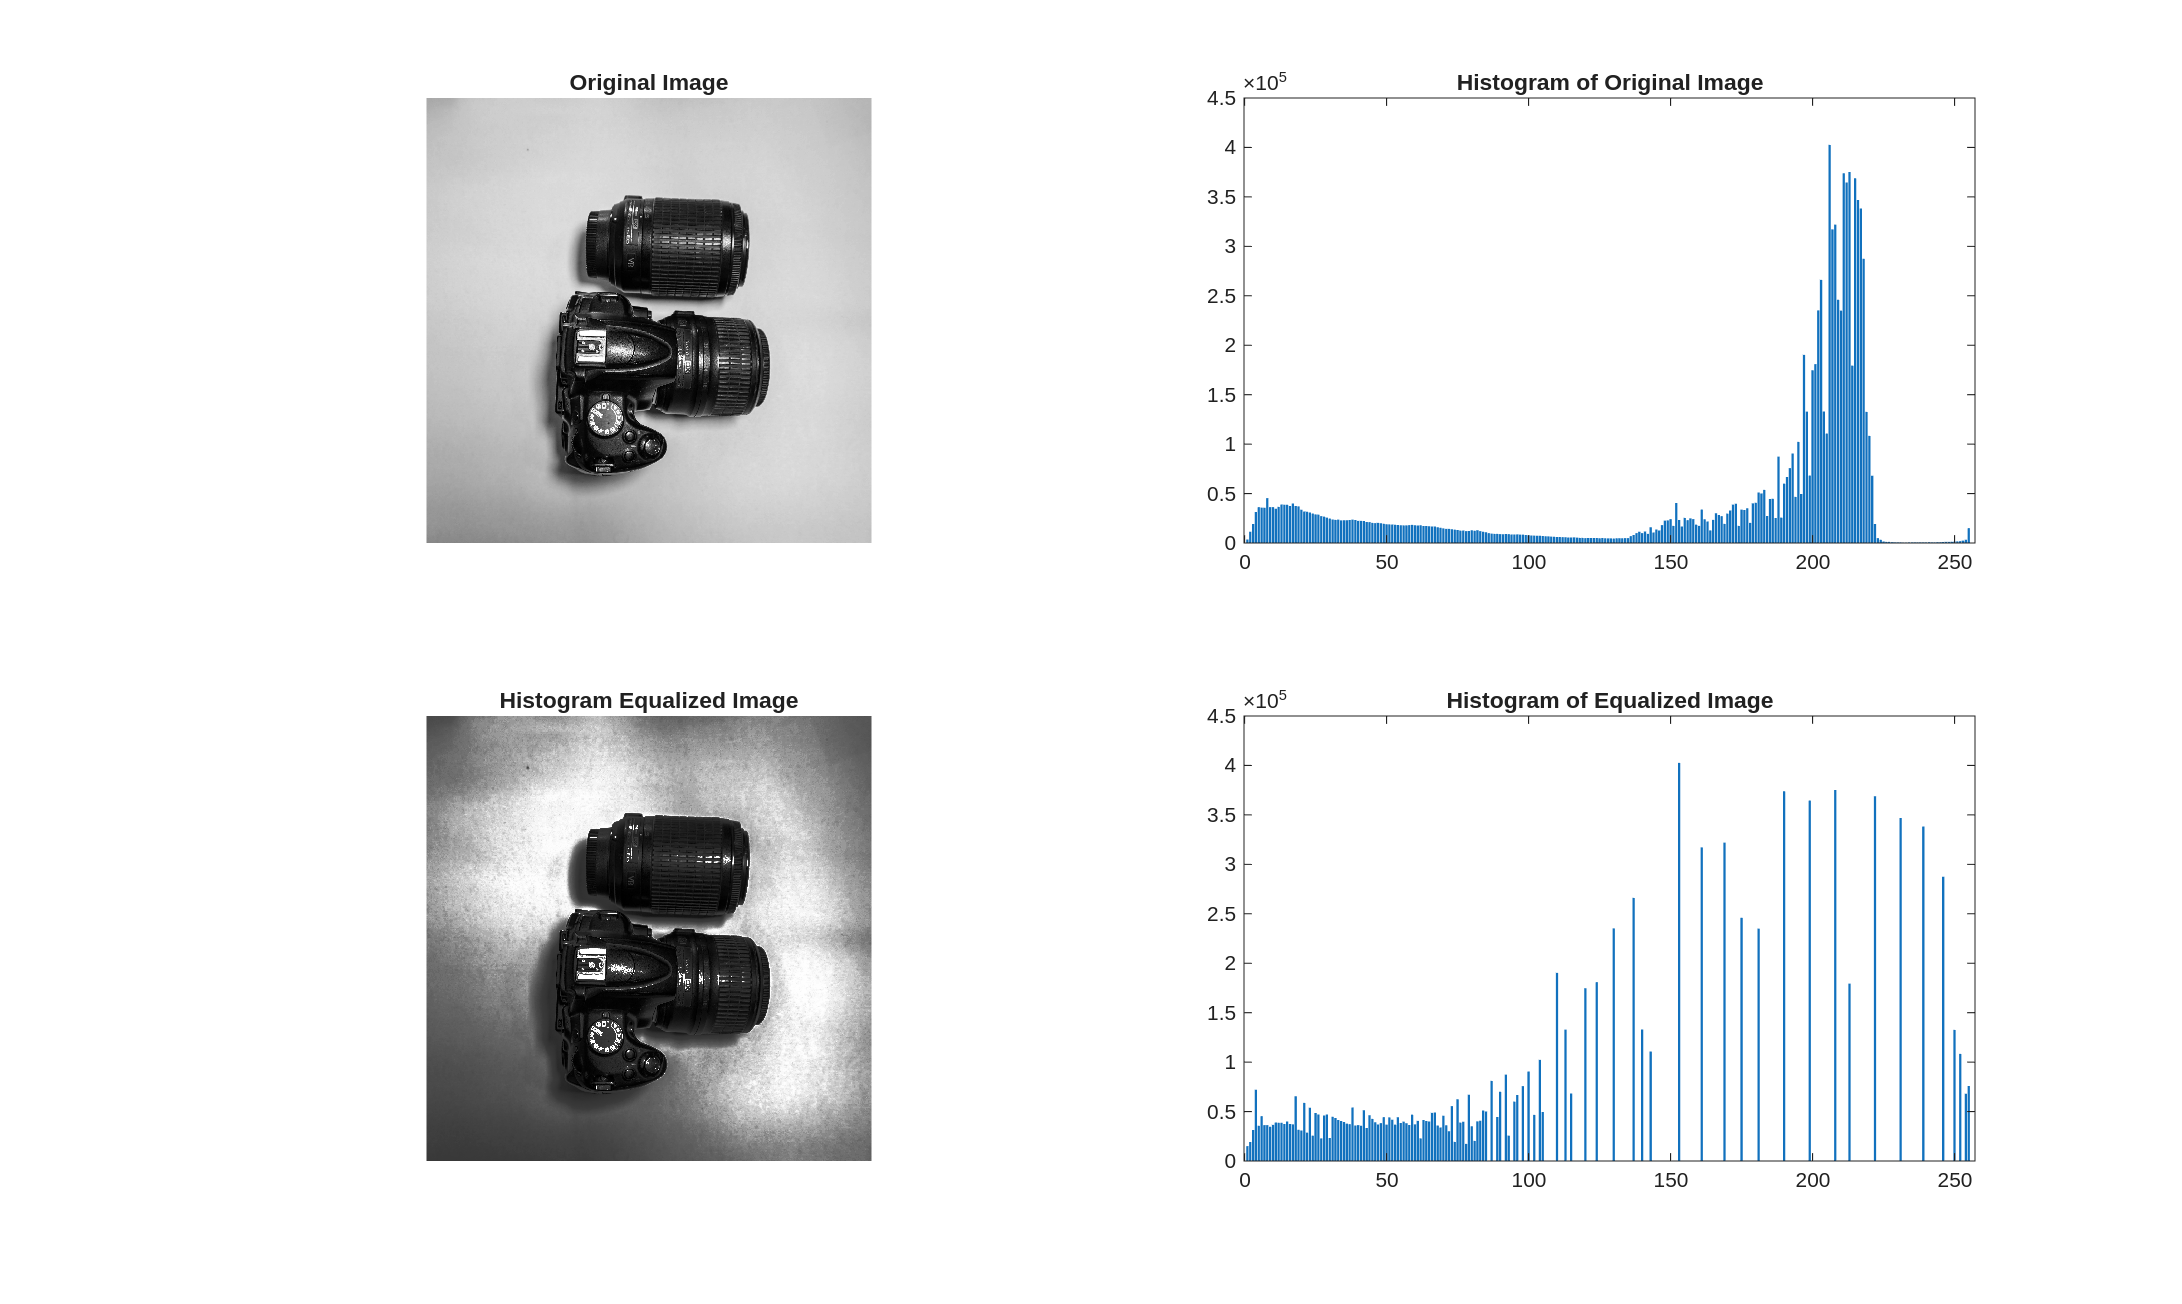
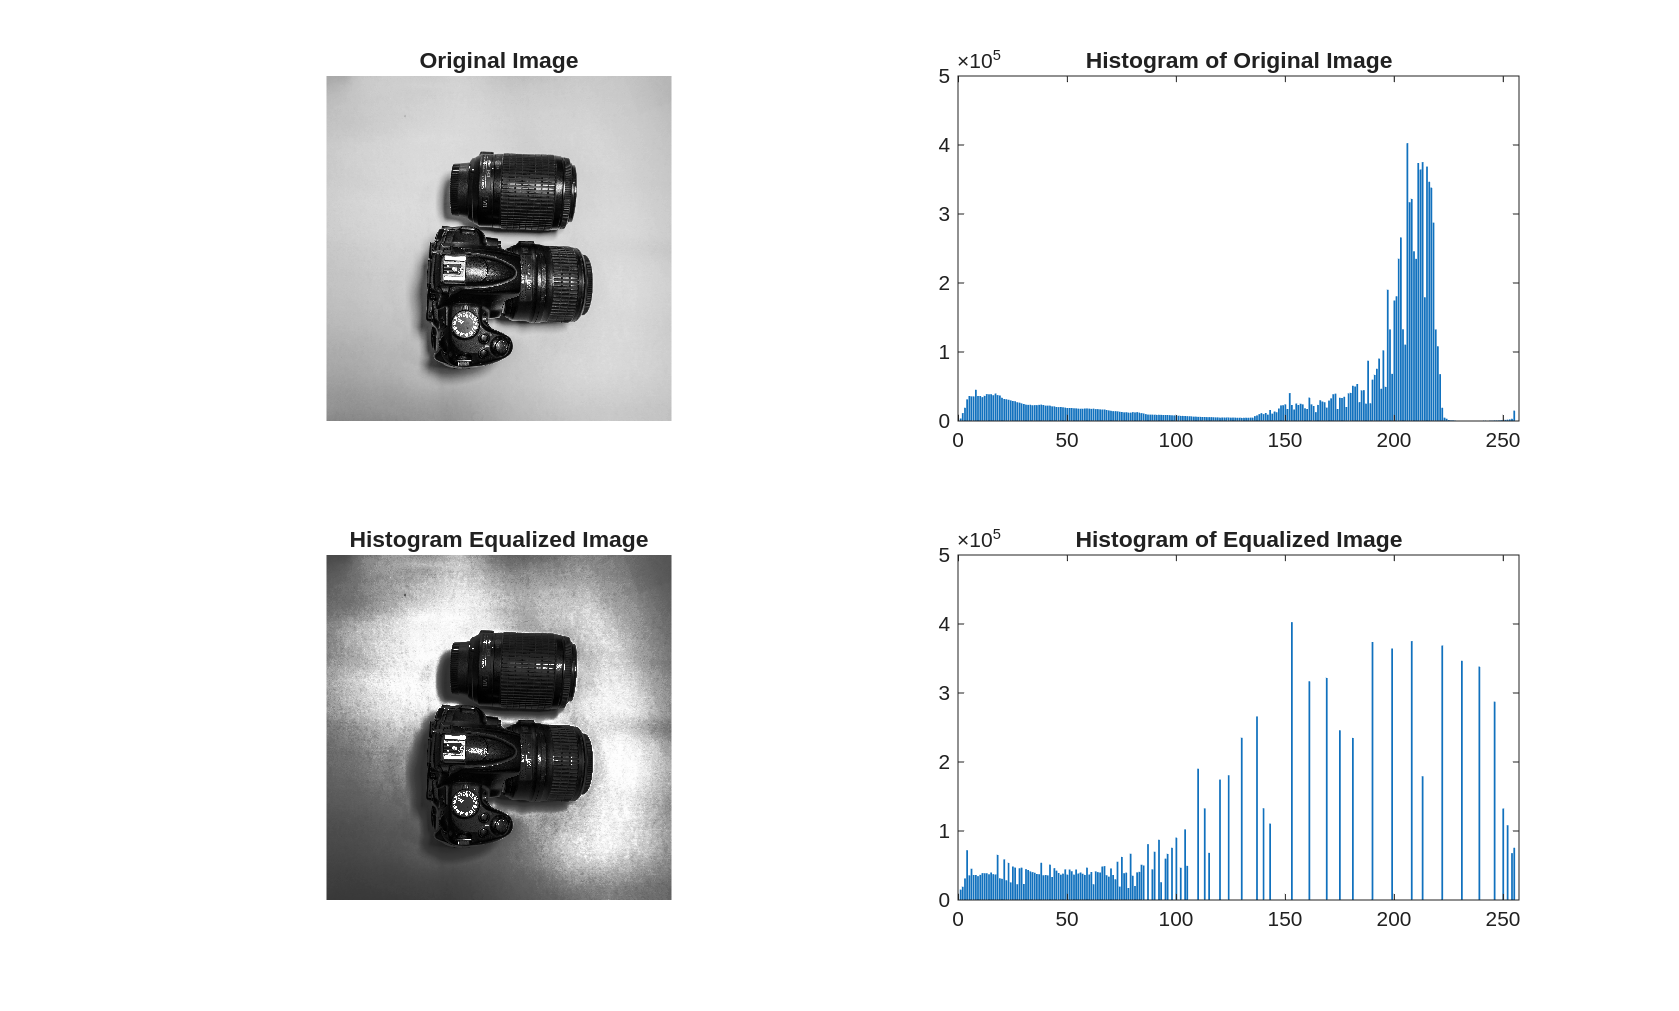
Update Q3

diff --git a/L1/question3.m b/L1/question3.m
@@ -4,13 +4,10 @@ imc = imread("./L1/im3.png");
 % Convert to grayscale
 img = rgb2gray(imc);
 
-% Rotate the image by 90 degrees
-theta = pi / 2;
-
-% Transformation matrix for rotation
-R = [cos(theta) sin(theta) 0;
-     -sin(theta) cos(theta) 0;
-     0 0 1];
+% Ensure directory exists
+if ~exist('./L1/report', 'dir')
+    mkdir('./L1/report');
+end
 
 function [rot_img] = rotate_image(img, R)
     % Rotate image `img` using the transformation matrix `R`
@@ -40,6 +37,14 @@ function [rot_img] = rotate_image(img, R)
         end
     end
 end
+
+% Rotate the image by 90 degrees
+theta = pi / 2;
+
+% Transformation matrix for rotation
+R = [cos(theta) sin(theta) 0;
+     -sin(theta) cos(theta) 0;
+     0 0 1];
 
 tic; % Start timing
 rot_img_custom = rotate_image(img, R);
